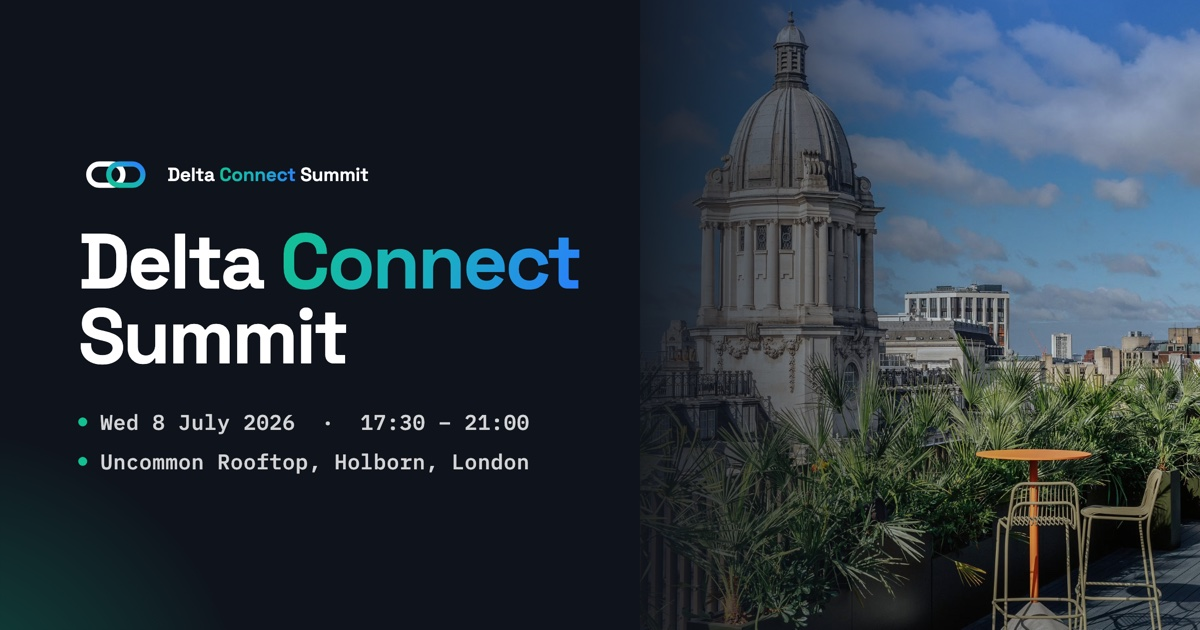
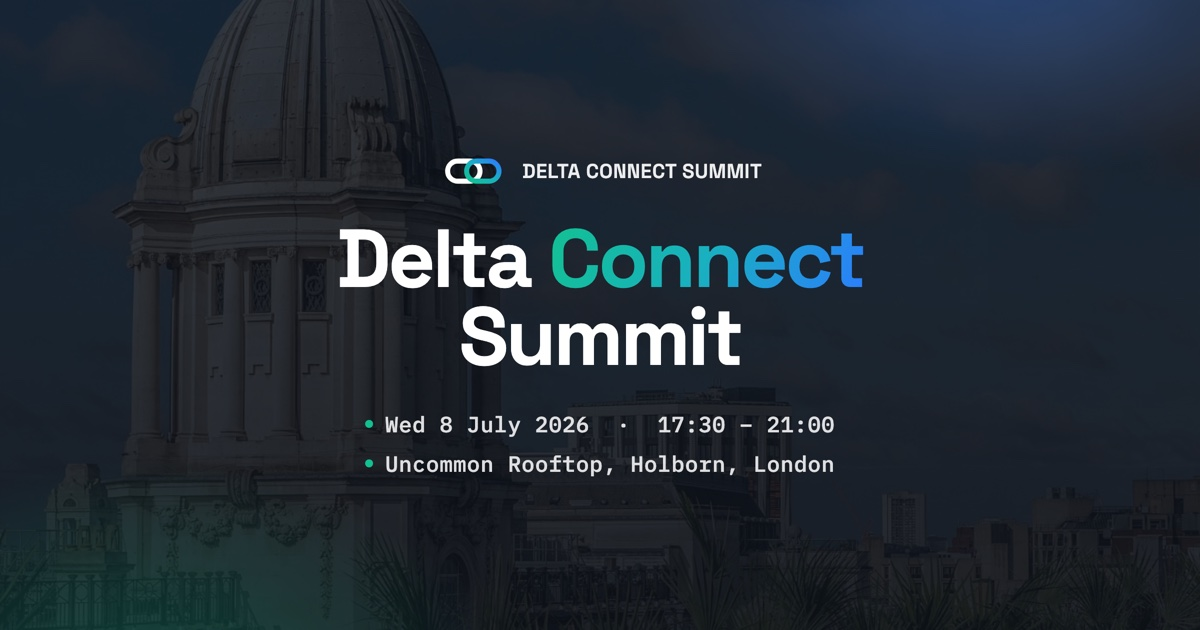
og image: center the teaser so chat crops don't cut the title
Chat apps (Teams) crop the preview to a near-square thumbnail, which clipped
the left-aligned title. Rebuilt the 1200x630 teaser with the title + date
centered over a full-bleed rooftop photo so any crop keeps them intact.
Bumped og:image to ?v=2 (edge function + both pages) to bust crawler cache.

diff --git a/netlify/edge-functions/og.js b/netlify/edge-functions/og.js
@@ -4,7 +4,7 @@
 // to the full static page untouched.
 
 const BASE = "https://deltaconnect.netlify.app";
-const IMG = BASE + "/og-image.jpg";
+const IMG = BASE + "/og-image.jpg?v=2";
 const TITLE = "Delta Connect Summit — 8 July 2026, Uncommon Rooftop, London";
 const DESC = "Where brands scale and founders connect — an evening with the Delta Connect community.";
 